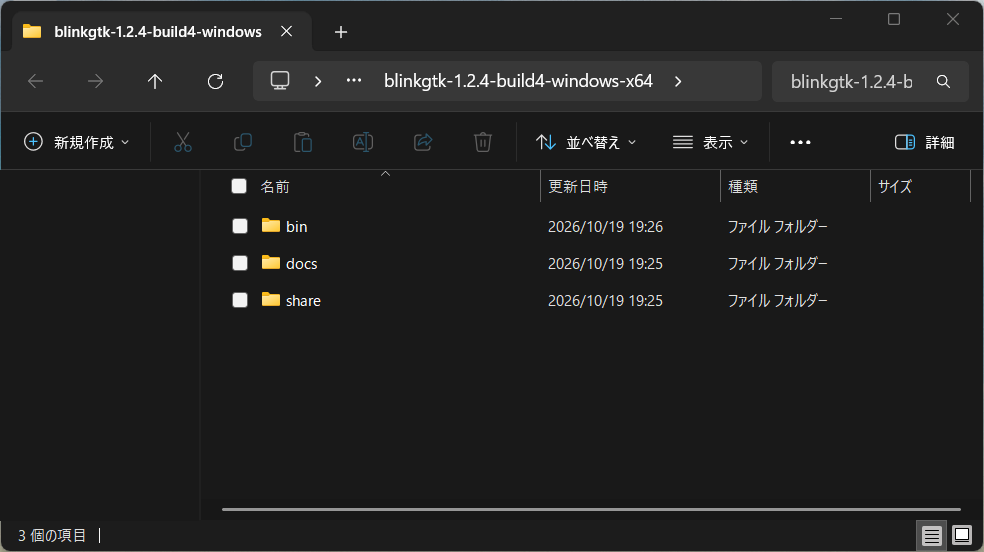
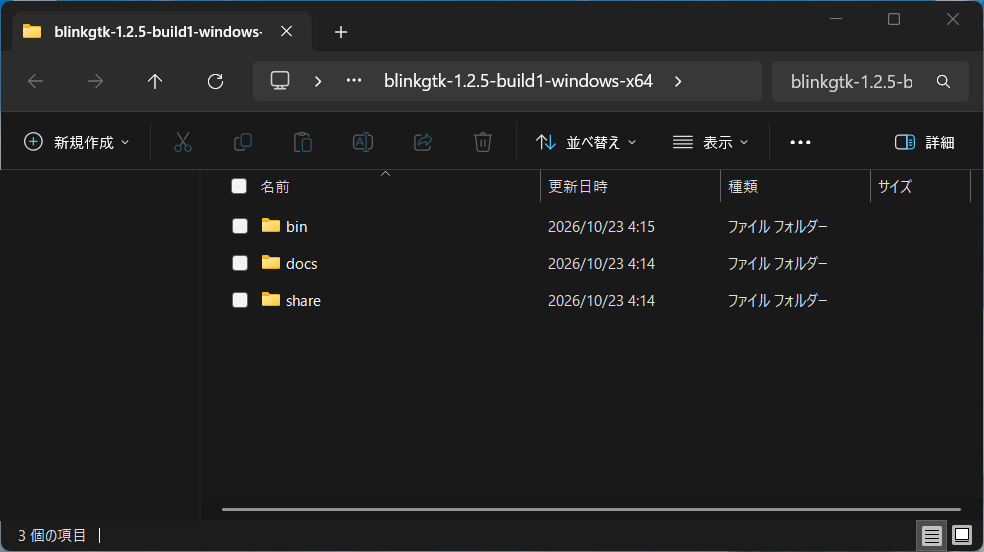
Windows のはじめかた (ja/en) を BlinkGTK for Windows 1.2.5-build1 の原稿に更新

diff --git a/docs/windows-getting-started-en.html b/docs/windows-getting-started-en.html
@@ -52,9 +52,9 @@ works at once (no administrator rights needed).<br />
 The API is nearly the same as the Linux version, so you can use the same
 code on both operating systems (the differences are collected in
 "Differences from the Linux version" below).</p>
-<p>This page describes <strong>v1.2.4-build4</strong> (Chromium
-155.0.8059.39). We checked on Windows 11 Pro (build 26300), on
-2026-10-18, that it unpacks and runs.</p>
+<p>This page describes <strong>v1.2.5-build1</strong> (Chromium
+156.0.8078.47). We checked on Windows 11 Pro (build 26300), on
+2026-10-23, that it unpacks and runs.</p>
 <p><strong>Contents</strong>: <a href="#who-it-is-for">Who it is for</a>
 / <a href="#run-it">Run it</a> / <a href="#check-that-it-works">Check
 that it works</a> / <a href="#requirements">Requirements</a> / <a
@@ -127,10 +127,11 @@ present.</p></li>
 <li><p><strong>You want to try Japanese vertical text and
 typesetting.</strong> There is an experimental adjustment for vertical
 text (see <a href="#differences-from-the-linux-version">Differences from
-the Linux version</a>). However, the hanging punctuation (typesetting
-that lets punctuation hang past the end of a line) and warichu (inline
-cutting notes: small notes set in two lines inside a line) that the
-Linux version has are not included in this Windows version.</p></li>
+the Linux version</a>). In this version on Windows, hanging punctuation
+(typesetting that lets punctuation hang past the end of a line) and
+one-line warichu (inline cutting notes: small notes set in two lines
+inside a line) work. Warichu that spans lines does not exist yet, even
+in the Linux version.</p></li>
 </ul>
 <p><strong>What you need depends on what you want to do.</strong></p>
 <table>
@@ -167,7 +168,7 @@ it takes a long time and a lot of disk)</td>
 <h2 id="run-it">Run it</h2>
 <h3 id="1-download-and-unpack">1. Download and unpack</h3>
 <p>Get the ZIP files from the <a
-href="https://github.com/daisy19gnu/blinkgtk-dist/releases/tag/v1.2.4-build4-windows"><code>v1.2.4-build4-windows</code>
+href="https://github.com/daisy19gnu/blinkgtk-dist/releases/tag/v1.2.5-build1-windows"><code>v1.2.5-build1-windows</code>
 release of blinkgtk-dist</a>.</p>
 <table>
 <thead>
@@ -178,11 +179,11 @@ release of blinkgtk-dist</a>.</p>
 </thead>
 <tbody>
 <tr>
-<td><code>blinkgtk-1.2.4-build4-windows-x64.zip</code></td>
+<td><code>blinkgtk-1.2.5-build1-windows-x64.zip</code></td>
 <td><strong>To run it</strong> (portable). Start with this one</td>
 </tr>
 <tr>
-<td><code>blinkgtk-devel-1.2.4-build4-windows-x64.zip</code></td>
+<td><code>blinkgtk-devel-1.2.5-build1-windows-x64.zip</code></td>
 <td><strong>To embed it</strong> (headers and libraries; see <a
 href="#embedding-it-in-your-app">Embedding it in your app</a>)</td>
 </tr>
@@ -216,7 +217,7 @@ folder and <strong>double-click
 <p>To open a page of your choice, use a Command Prompt (search for "cmd"
 in the Start menu), move to the <code>bin</code> folder of the unpacked
 folder, and run:</p>
-<pre><code>cd /d &quot;C:\BlinkGTK\blinkgtk-1.2.4-build4-windows-x64\bin&quot;
+<pre><code>cd /d &quot;C:\BlinkGTK\blinkgtk-1.2.5-build1-windows-x64\bin&quot;
 blinkgtk_browser.exe https://example.com/</code></pre>
 <p>The <code>C:\BlinkGTK\...</code> on the first line is an example.
 <strong>Replace it with the actual path where you unpacked it</strong>
@@ -236,7 +237,7 @@ alt="blinkgtk_browser showing the Google home page" /></p></li>
 than the numbers on the site or in the documents.</p></li>
 </ul>
 <pre><code>&gt; blinkgtk_browser.exe --version
-BlinkGTK 1.2.4-build4 (Chromium 155.0.8059.39)</code></pre>
+BlinkGTK 1.2.5-build1 (Chromium 156.0.8078.47)</code></pre>
 <ul>
 <li>If nothing appears, the window stays white, or it exits at once, see
 <a href="#if-something-goes-wrong">If something goes wrong</a>.</li>
@@ -257,7 +258,7 @@ Pro</strong> (builds 26200 and 26300); we have not verified on Windows
 </tr>
 <tr>
 <td>Disk space</td>
-<td>About 1.4 GiB (ZIP 377 MiB + about 1,048 MiB unpacked; you need both
+<td>About 1.4 GiB (ZIP 378 MiB + about 1,051 MiB unpacked; you need both
 while unpacking)</td>
 </tr>
 <tr>
@@ -272,12 +273,12 @@ one)</td>
 </tr>
 </tbody>
 </table>
-<p>The GitHub Releases page shows the same ZIP as "377 MB". Tools that
-count in units of 1,000,000 bytes show 395 MB.</p>
+<p>The GitHub Releases page shows the same ZIP as "378 MB". Tools that
+count in units of 1,000,000 bytes show 396 MB.</p>
 <hr />
 <h2 id="embedding-it-in-your-app">Embedding it in your app</h2>
 <p>The devel ZIP
-(<code>blinkgtk-devel-1.2.4-build4-windows-x64.zip</code>) contains the
+(<code>blinkgtk-devel-1.2.5-build1-windows-x64.zip</code>) contains the
 public API headers, the import libraries and the GTK4 development
 files.</p>
 <ul>
@@ -349,6 +350,26 @@ with the headers and libraries from the new devel ZIP (compatibility
 with the previous <code>blinkgtk.dll</code> was not checked).</li>
 </ol>
 <p>Notes for each version:</p>
+<p><strong>From 1.2.4-build4 to 1.2.5-build1:</strong></p>
+<ul>
+<li><strong>Chromium moved from 155 to 156</strong> (156.0.8078.47).
+Compare how vertical text and typesetting look on your own pages.</li>
+<li><strong>Hanging punctuation and one-line warichu now work.</strong>
+<code>blink_gtk_has_typesetting_feature()</code> returns TRUE for both
+<code>"hanging-punctuation:allow-end"</code> and
+<code>"warichu:single-line"</code> (we checked that the answers match
+the actual behavior). If you wrote your own fallback on the assumption
+of FALSE, review it.</li>
+<li><strong>The Linux 1.2.5 changes are included</strong>: the
+<code>load-failed</code> error number is passed as an integer (int),
+<code>is-loading</code> returns to False when loading ends,
+<code>set_user_agent()</code> also applies to pages opened with
+<code>load_uri()</code> and to <code>reload()</code>, and the zoom level
+(<code>set_zoom_level()</code>) is a factor (1.0 = 100%). <strong>We
+have not checked the behavior of these on Windows.</strong></li>
+<li><strong>The public API did not change</strong> (still 154 entry
+points).</li>
+</ul>
 <p><strong>From 1.2.4-build2 to 1.2.4-build4:</strong></p>
 <ul>
 <li><strong>The public API did not change</strong> (still 154 entry
@@ -416,12 +437,12 @@ experimental GPU path can be selected with an environment variable
 <tr>
 <td>Hanging punctuation typesetting</td>
 <td>Yes (from 1.2.4-build1)</td>
-<td><strong>Not included in this version</strong></td>
+<td>Yes (from 1.2.5-build1)</td>
 </tr>
 <tr>
-<td>Warichu (inline cutting notes) typesetting</td>
+<td>Warichu (inline cutting notes) typesetting (one-line cases)</td>
 <td>Yes (from 1.2.4-build3)</td>
-<td><strong>Not included in this version</strong></td>
+<td>Yes (from 1.2.5-build1)</td>
 </tr>
 <tr>
 <td>Japanese vertical text layout</td>
@@ -550,6 +571,11 @@ correspondence, and reworked the upgrade steps</td>
 <td>Added the difference in <code>load-changed</code> values, how to
 replace the path in the command, and what to check in the Visual Studio
 screenshot</td>
+</tr>
+<tr>
+<td>2026-10-23</td>
+<td>Updated for 1.2.5-build1: Chromium 156, hanging punctuation and
+one-line warichu included, upgrade notes from 1.2.4-build4 added</td>
 </tr>
 </tbody>
 </table>
